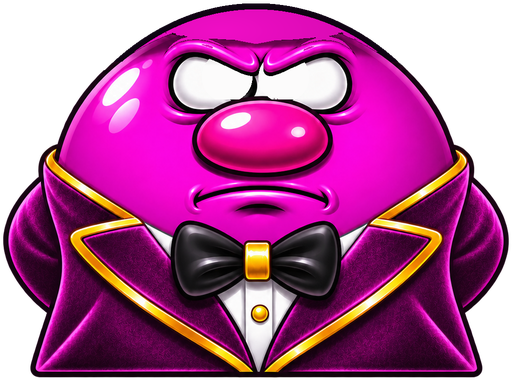
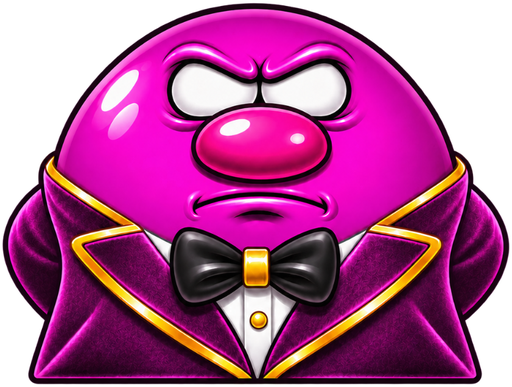
art(hd): swap in clean hatless/pupilless rival body assets and align eye masks

diff --git a/web/src/engine/hdCharacters.ts b/web/src/engine/hdCharacters.ts
@@ -868,8 +868,8 @@ export function createHdRival(side: 'left' | 'right'): HdRivalController {
   const eyeRadiusX = hasCustomBody ? 5.1 : 3.2;
   const eyeRadiusY = hasCustomBody ? 5.0 : 3.5;
   const customEyes = [
-    { x: -0.083 * bodyW, y: 2 - 0.7737 * bodyH, rx: 0.077 * bodyW, ry: 0.11 * bodyH },
-    { x: 0.0889 * bodyW, y: 2 - 0.7645 * bodyH, rx: 0.087 * bodyW, ry: 0.104 * bodyH },
+    { x: -0.0844 * bodyW, y: 2 - 0.789 * bodyH, rx: 0.078 * bodyW, ry: 0.087 * bodyH },
+    { x: 0.090 * bodyW, y: 2 - 0.788 * bodyH, rx: 0.083 * bodyW, ry: 0.085 * bodyH },
   ];
   const eyeOffsets = [-3.9, 3.9];
   const pupils: Sprite[] = [];
@@ -966,7 +966,7 @@ export function createHdRival(side: 'left' | 'right'): HdRivalController {
   // Articulated Top Hat on top of kolobok head (lifts on celebration, tilts on think, dips on pass)
   const hatPivot = new Container();
   const baseHatRot = hasCustomHat ? 0 : dir * 0.045;
-  const hatBaseY = hasCustomHat ? -36.5 : -29;
+  const hatBaseY = hasCustomHat ? -38.0 : -29;
   hatPivot.position.set(0, hatBaseY);
   hatPivot.rotation = baseHatRot;
 
